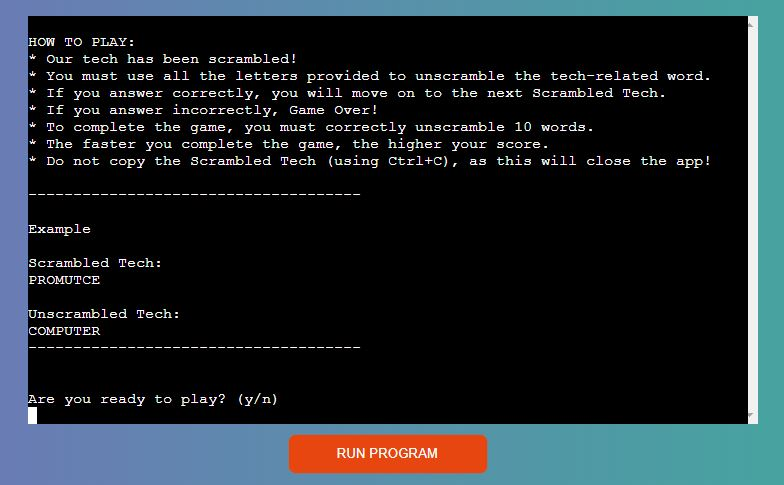
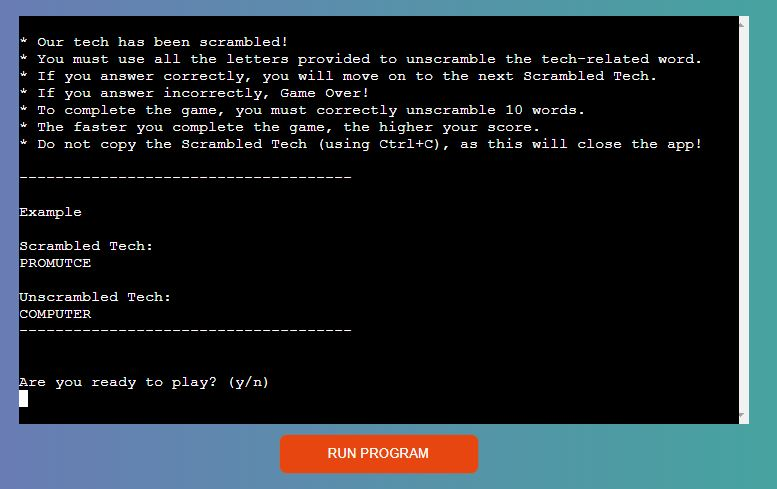
docs: Add images and fix typos in README

Changed region(s): [[0.0, 0.0309, 0.9884, 0.9897], [0.3089, 0.6495, 0.3707, 0.6804], [0.4015, 0.6495, 0.4324, 0.6804]]

diff --git a/run.py b/run.py
@@ -242,7 +242,7 @@ def get_score(shuffled_list, final_seconds):
     leaderboard_worksheet.append_row(data)
     data_list = leaderboard_worksheet.get_all_values()
     sorted_list = sorted(data_list, key=lambda x: int(x[1]), reverse=True)
-    warnings.filterwarnings('ignore')  # gspread update warning
+    warnings.filterwarnings('ignore') 
     leaderboard_worksheet.update(sorted_list, "A:B")
 
     if score > int(sorted_list[9][1]):

diff --git a/README.md b/README.md
@@ -33,7 +33,7 @@ Scrambled Tech is an anagram solver game aimed at tech enthusiasts! In this comm
     * [Unfixed Bugs](#unfixed-bugs)
 * [Technologies Used](#technologies-used)
     * [Languages](#languages)
-    * [Python Modules](#python-modules)
+    * [Python Modules and Libraries](#python-modules-and-libraries)
     * [Technologies and Programs](#technologies-and-programs)
 * [Deployment](#Deployment)
     * [Before Deployment](#before-deployment)
@@ -51,6 +51,7 @@ Scrambled Tech is an anagram solver game aimed at tech enthusiasts! In this comm
 * Design and build an interactive application anagram solver game based on technology-related words.
 * Build the application using Python exclusively, run in a command-line interface (CLI) and deployed using Heroku.
 * Robust error handling, where all inputs are validated and empty inputs are not accepted.
+* When an error is raised from user input, feedback is provided to the user.
 * Good UX, the app should be intuitively easy to navigate and simple to understand.
 * The game should be fun and challenging to engage the user.
 * The game should have difficulty options to allow the user to challenge themselves further.
@@ -104,7 +105,7 @@ The welcome screen gives a short message, and prompts the user to enter their na
 ![Image of Welcome Screen](/documentation/welcome.jpg)
 
 ### Username
-The username feature allows users the opportunity to have their name placed on the leaderboard. The input is validated; an error will be raised if the name contains less than two letters or contains certain special characters. The error message describes clearly to the user why the error is raised and repeats the request for the username input. This validation is depicted in the image below:
+The username feature allows users the opportunity to have their name placed on the leaderboard if they achieve a high score. The input is validated; an error will be raised if the name contains less than two letters or contains certain special characters. The error message describes clearly to the user why the error is raised and repeats the request for the username input. This validation is depicted in the image below:
 
 ![Image of Username](/documentation/username.jpg)
 
@@ -122,48 +123,52 @@ Simple and straightforward instructions are provided with an example. The user c
 Three levels with marked increase in difficulty are available. 
 * Easy level may be suitable (though still challenging) for older children, easy words are typically 4-6 letters long.
 * Medium level is typically 5-8 letter words.
-* Expert level is extremely challenging even for Tech experts and contains 8+ letter words. 
+* Expert level is extremely challenging, even for Tech experts and contains 8+ letter words. 
 
 ![Image of Level Selection](/documentation/level-selection.jpg)
 
 ### Play
 During play, the game has the following features:
 * Question number out of 10 displayed at the top.
-* Scrambled Tech is displayed clearly for the user to unscramble.
+* The Scrambled Tech is displayed clearly for the user to unscramble.
 * The same words will never be repeated in the same game.
 * The order of the letters are shuffled at random.
 * The input is not sensitive to case; the user can choose to enter upper or lower case.
-* A correct answer will lead to the terminal being cleared and the next word shown until ten words have been unscrambled correctly.
+* A correct answer will lead to the next Scrambled Tech until ten words have been unscrambled correctly.
 * The terminal is cleared between each Scrambled Tech so as not to clutter the terminal.
 
 ![Image of Scrambled Tech](/documentation/scrambled-tech.jpg)
 
 ### Game Over
 * An incorrect answer will lead to Game Over.
-* The user is prompted to play again, and as always, the input is validated.
+* The user is prompted to play again.
 
 ![Image of Game Over](/documentation/game-over.jpg)
+
+* The play again input is validated, and will raise an error message if anything other than 'y'/'Y' or 'n'/'N' is entered.  When a error is raised feedback is provided to the user and the request for input repeated, as shown in the image below:
+
+![Image of play again error](/documentation/play-again-error.jpg)
 
 ### Timer
 * Threading is used to run a timer which starts from 0 and counts up in one second increments.
 * The timer runs simultaneously to the game being played.
 * The timer is stopped when the user has correctly unscrambled the tenth word.
-* Unfortunately, it was not possible to display the timer visually at the same time as expecting a user input in the CLI. However, it is running in the background.
+* It was not possible to display the timer visually at the same time as expecting a user input in the CLI. This is satisfactory, as the user does not need to see their time until the level is completed.
 
 ![Threading Logic Flowchart](/documentation/threading.jpg)
 
 ### Score
 On completion of the game, the score is calculated using the formula:
 
-Score = (1/final_seconds) * multiplier
+score = (1/final_seconds) * multiplier
 
 Where final_seconds is the total time in seconds taken to complete the game.
 The multiplier factors in the chosen difficulty level, so that a higher score is achieved for a higher level:
-* Easy level multiplier = 10000
-* Medium level multiplier = 100000
-* Expert level multiplier = 1000000
+* Easy level multiplier = 10,000
+* Medium level multiplier = 100,000
+* Expert level multiplier = 1,000,000
 
-These multipliers were adjusted and tested during development by playing the game to ensure the score multipliers make sense.
+These multipliers were adjusted and tested during development, by playing the game to ensure the score multipliers make sense and the scoring system is fair.
 
 ![Image of Score](/documentation/score.jpg)
 
@@ -176,24 +181,31 @@ Google Sheets is used as the API to store the data for the leaderboard feature. 
 
 ![Image of Worksheet](/documentation/worksheet.jpg)
 
+After viewing the leaderboard, the user is asked if they would like to return to the main menu. The input is validated and will raise an error message if anything other than 'y'/'Y' or 'n'/'N' is entered. When a error is raised feedback is provided to the user and the request for input repeated, as shown in the image below:
+
+![Image of back to menu error](/documentation/back-to-menu-error.jpg)
+
 ### Future Features
-A feature that would benefit this game would be the ability to disable the Ctrl+C command in the terminal. Whilst users should not cheat at the game, some users may be tempted to copy the Scrambled Tech using Ctrl+C into an anagram solver. This will result in the program being interupted.  
+A feature that would benefit this game would be the ability to disable the Ctrl+C command in the terminal. Whilst users should not cheat(!), some users may be tempted to copy the Scrambled Tech using Ctrl+C into an anagram solver. This will result in the program being interrupted.  
 
 ## Testing
-The application has been thoroughly tested and code validated. All testing documentation can be found [here](testing.md)
+The application has been thoroughly tested and code validated. All testing documentation can be found in the separate [testing.md](testing.md) file.
 
 ## Bugs
 ### Fixed Bugs
-No major bugs were found during the development. However there are a couple of minor issues detailed below:
- 
+A couple of minor issues were discovered and resolved during development and deployment as detailed below:
+
 * When running the get_score function, a warning would appear in the terminal. The warning stated that a later version of gspread (version 6.0.0) would include a syntax update. This affected one line of code only, and is not an issue for the version currently in use. I used filterwarnings('ignore') within the function to filter out that warning, whilst allowing any other unexpected warnings to show.
 
-* After deployment, I noticed that if you navigate to "How to play" and then proceed away from this page to play the game, the first line of the multiline string, which said "HOW TO PLAY:" would remain in the terminal during the game, despite the terminal being cleared between features. The unwanted line was right at the top of the terminal, hidden but where you could see it if you actively scrolled up. 
+![Image of Warning](/documentation/warning.jpg)
+
+* After deployment, I noticed that if you navigate to "How to play" and then proceed away from this page to play the game, the first line of the multiline string, which said "HOW TO PLAY:" would remain in the terminal during the game, despite the terminal being cleared between features. The unwanted line was right at the top of the terminal, initially hidden, but where you could see it if you actively scrolled up. 
+
 To fix this error I tried the following:
 1. Including a blank line at the top of the string.
 1. Using a separate print statement for "HOW TO PLAY:".
-1. Repositioning HOW TO PLAY as a bullet point in the list in the multiline string.
-My reasonable attempts to fix the problem were unsuccessful, so I decided to remove the line "HOW TO PLAY:" entirely. This is not ideal, but the problem is resolved and the page still makes sense to the user.
+1. Repositioning "HOW TO PLAY:" as a bullet point in the list in the multiline string.
+My reasonable attempts to fix the problem were unsuccessful, so I decided to remove the line "HOW TO PLAY:" entirely. This is not ideal, but the problem is resolved and the page still makes sense to the user, as they have already selected to navigate to "how to play".
 
 ### Unfixed Bugs
 There are no unfixed bugs.
@@ -204,25 +216,25 @@ There are no unfixed bugs.
 * The Code Institute template provided the HTML used in the deployed project.
 * CSS was used to create an attractive background and center the terminal within the browser window.
 
-### Python Modules
-* gspread - used as the API for interacting with Google Sheets.
-* oauth - used to generate the credentials for the API.
-* os - provides operating system-dependent functionality. Used to clear the terminal.
-* random - used to shuffle lists of strings into a random order.
-* time - used to create a timer.
-* threading - used to simultaneously run a timer whilst the game is being played.
-* warnings - used to filter a warning. 
+### Python Modules and Libraries
+* gspread - external Python library used as the API for interacting with Google Sheets.
+* oauth - external framework used to generate the credentials for the API.
+* os - built-in python module that provides operating system-dependent functionality. Used to clear the terminal.
+* random - built-in python module used to generate pseudo-random variables. Used to shuffle lists of strings into a random order. 
+* time - built-in python module used to create a timer.
+* threading - built-in python module used to simultaneously run a timer whilst the game is being played.
+* warnings - built-in python module used to filter a warning associated with future syntax update. 
 
 ### Technologies and Programs
 * [GitHub](https://github.com/) - cloud-based system used to host the site.
-* [Gitpod](https://gitpod.io/) -  version control and integrated development environment(IDE) used during development.
+* [Gitpod](https://gitpod.io/) -  version control and integrated development environment (IDE) used during development.
 * [Heroku](https://id.heroku.com/) - used to deploy the application.
 * [CI Python Linter](https://pep8ci.herokuapp.com/) - used to validate the Python code.
-* [Lucid Chart](https://lucidchart.com)- used to create the flowchart.
+* [Lucid Chart](https://lucidchart.com)- used to create the logic flowchart.
 
 ## Deployment
 ### Before deployment
-* Ensure all input methods included “\n” at the end of the string eg. Input(“Enter your name:\n”). This ensures that the text will de displayed when deployed to the Heroku terminal.
+* Ensure all input methods include “\n” at the end of the string eg. Input(“Enter your name:\n”). This ensures that the text will de displayed when deployed to the Heroku terminal.
 * Create a list of dependencies in the requirements.txt file by using the following command in the terminal ‘pip3 freeze > requirements.txt’.
 * Set up a Heroku account.
 
@@ -276,11 +288,11 @@ Cloning the repository may be beneficial to experiment with the addition of futu
 
 ## Credits
 ### Code
-* The code for CSS styling was modified from that of another Code Institute student's project [inventory-management-PP3 by Dayana-N](https://github.com/Dayana-N/inventory-management-PP3/blob/main/views/layout.html)
+* The code for CSS styling was modified from that of another Code Institute student's project [inventory-management-PP3 by Dayana-N](https://github.com/Dayana-N/inventory-management-PP3/blob/main/views/layout.html).
 
 ### Content
-* All content was written by the developer
+* All content was written by the developer.
 
 ### Acknowledgements
-* I would like to thank my mentor Victor Miclovich for his excellent advice and guidance during the development of this project.
-* I would like to thank the Code Institute Tutors for their help and support during the development of this project.
+* I would like to thank my mentor Victor Miclovich for his excellent advice and support during the development of this project.
+* I would like to thank the Code Institute Tutors for their technical guidance.

diff --git a/testing.md b/testing.md
@@ -18,7 +18,7 @@
 | As a first time user, I want to play the game at a difficulty level that suits my ability. | The user can select from three levels of difficulty. | PASS |
 | As a first time user, I want to play multiple times, until I complete the level, without seeing the same set of words repeated. | The same set of words is not repeated, and the scrambling of the letters is also different every time. This is true when the user chooses to play again after completing the level or failing to complete the level. | PASS |
 | As a first time user, I want to complete the game for my selected level. | At Game Over, the user is prompted to play again. Thee user can play as many times as it takes to complete the level. | PASS |
-| As a first time user, I want to see how well I scored. | On completion of the level, the level, time and score are printed. The leaderboard is also displayed. | PASS |
+| As a first time user, I want to see how well I scored. | On completion of the level, feedback is provided to the user on the level, time and score achieved. The leaderboard is also displayed. | PASS |
 | As a first time user, I want to view the leaderboard. | The leaderboard can be viewed from the main navigation menu or by completing a level. | PASS | 
 | As a first time user, I want to exit the application gracefully, only if I choose to. | The navigation has been designed such that the user can replay and move around the game without exiting. There is one route out of the application, which thanks them for playing | PASS |
 | As a returning and/or frequent user, I want to complete the level in a faster time to improve my score. | Users have the option to repeat the level and view their time and score on completion. | PASS |
@@ -77,7 +77,7 @@ Manual testing of the application was carried out continuously from early develo
 ### CSS
 A small amount of CSS was included to colour the background and center the terminal. This code passed through the W3C Validator with No Errors Found.
 
-## Accessibility
+### Accessibility
 The application passed the DevTools lighthose validator.
 
 ![lighthouse](/documentation/lighthouse.jpg)
